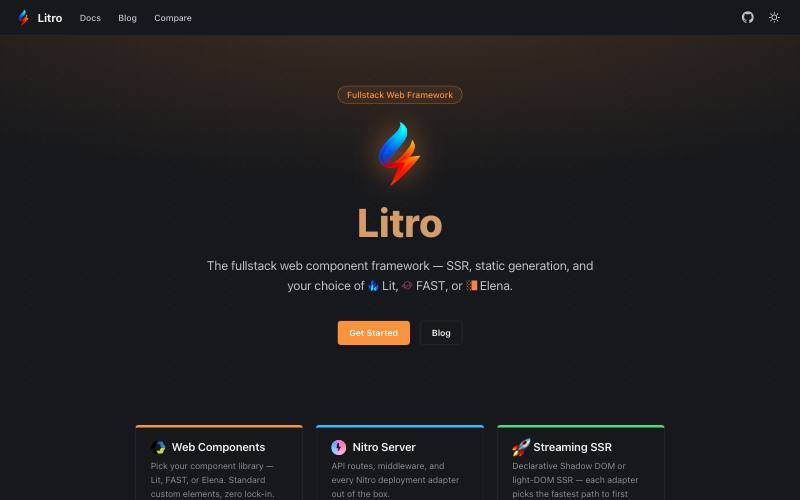
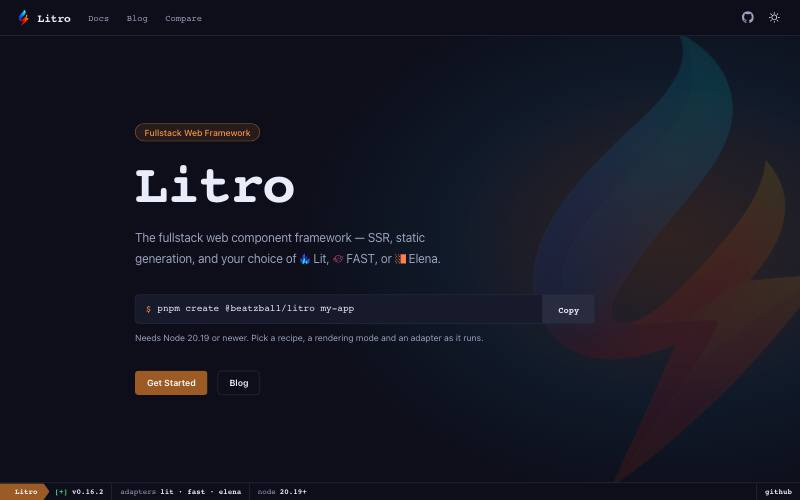
fix(docs): one frame size for the showcase, and a shot from this build
Three corrections from the owner's review.

1. THE SUPPORTING LINE WRAPPED

"The pictures" became "Screenshots" as asked, and it still ran to two lines —
the section head is capped at 42rem, so a wider screen never rescues it.
Shortened further, to:

    Four starting points. Screenshots of real Litro sites show each shape.

One line at 1280px, 1440px and 1600px, measured. Every word in it is
load-bearing: "real Litro sites" is what says the pictures are genuine without
claiming which recipe any one of them runs.

2. THE SCREENSHOTS RENDERED AT TWO SIZES

All four files were already 800x500. The frames were not: the grid used
auto-fit, so a row holding ONE screenshot stretched it across the whole pane
while a row holding two split the same space between them, and the same file
came out at two different sizes. It read as a collage rather than a set.

Two fixed columns now, one on a phone. Every frame in the block measures the
same at every width — 189x138 at 1280 and 1440, 308x212 at 390, one unique
size in each case — and the 8:5 aspect ratio with object-fit: cover keeps a
site whose content is not that shape from distorting: it is cropped from the
center, which is where a hero's content sits.

3. LITRO'S OWN SHOT CAME FROM THE DEPLOYED SITE

Which is the old page, since this work is not deployed. It is captured from a
local build of this branch now, served and shot the same way as the others, so
[…]

diff --git a/docs-ssr/pages/index.ts b/docs-ssr/pages/index.ts
@@ -124,8 +124,8 @@ const SHOWCASE: Array<{
         siteHref: "https://litro.dev",
         alt:
           "The Litro home page: a dark landing page with the Litro wordmark in " +
-          "a monospaced face, the flame mark cropped against the right edge, " +
-          "and a copyable install command.",
+          "a monospaced face, the flame mark cropped against the right edge, a " +
+          "copyable install command, and a terminal status line at the foot.",
       },
     ],
   },
@@ -1008,13 +1008,28 @@ export class SplashPage extends LitroPage {
       text-decoration-thickness: 2px;
     }
 
+    /* TWO COLUMNS, ALWAYS — not auto-fit. With auto-fit a row holding one
+       screenshot stretched it across the whole pane while a row holding two
+       split the same space between them, so the same 800x500 file came out at
+       two different sizes and the section read as a collage. A fixed column
+       count gives every frame in the block one width, and the fixed aspect
+       ratio below gives them all one height.
+
+       On a phone the panes are full width and one column is the readable
+       choice; every frame is still the same size as every other. */
     .shots {
       display: grid;
-      grid-template-columns: repeat(auto-fit, minmax(11rem, 1fr));
+      grid-template-columns: repeat(2, minmax(0, 1fr));
       gap: 0.75rem;
       margin: 0;
       padding: 0;
       list-style: none;
+    }
+
+    @media (max-width: 52rem) {
+      .shots {
+        grid-template-columns: minmax(0, 1fr);
+      }
     }
 
     .shots a {
@@ -1656,9 +1671,14 @@ export class SplashPage extends LitroPage {
           <section class="showcase shell" aria-label="Recipes">
             <div class="section-head">
               <h2 class="section-title">Start from a recipe.</h2>
+              <!-- ONE LINE AT 1280px, and it has to stay one: the column is
+                   capped at 42rem, so a wider screen never rescues it. Every
+                   word here is load-bearing — "real Litro sites" is what says
+                   the pictures are genuine without claiming which recipe any
+                   one of them runs. -->
               <p>
-                Four starting points. The pictures show the shape each one
-                gives you, from sites built with Litro.
+                Four starting points. Screenshots of real Litro sites show each
+                shape.
               </p>
             </div>
             <litro-pane-grid>

diff --git a/docs/pages/index.ts b/docs/pages/index.ts
@@ -107,8 +107,8 @@ const SHOWCASE: Array<{
         siteHref: "https://litro.dev",
         alt:
           "The Litro home page: a dark landing page with the Litro wordmark in " +
-          "a monospaced face, the flame mark cropped against the right edge, " +
-          "and a copyable install command.",
+          "a monospaced face, the flame mark cropped against the right edge, a " +
+          "copyable install command, and a terminal status line at the foot.",
       },
     ],
   },
@@ -985,13 +985,28 @@ export class SplashPage extends LitroPage {
       text-decoration-thickness: 2px;
     }
 
+    /* TWO COLUMNS, ALWAYS — not auto-fit. With auto-fit a row holding one
+       screenshot stretched it across the whole pane while a row holding two
+       split the same space between them, so the same 800x500 file came out at
+       two different sizes and the section read as a collage. A fixed column
+       count gives every frame in the block one width, and the fixed aspect
+       ratio below gives them all one height.
+
+       On a phone the panes are full width and one column is the readable
+       choice; every frame is still the same size as every other. */
     .shots {
       display: grid;
-      grid-template-columns: repeat(auto-fit, minmax(11rem, 1fr));
+      grid-template-columns: repeat(2, minmax(0, 1fr));
       gap: 0.75rem;
       margin: 0;
       padding: 0;
       list-style: none;
+    }
+
+    @media (max-width: 52rem) {
+      .shots {
+        grid-template-columns: minmax(0, 1fr);
+      }
     }
 
     .shots a {
@@ -1628,9 +1643,14 @@ export class SplashPage extends LitroPage {
           <section class="showcase shell" aria-label="Recipes">
             <div class="section-head">
               <h2 class="section-title">Start from a recipe.</h2>
+              <!-- ONE LINE AT 1280px, and it has to stay one: the column is
+                   capped at 42rem, so a wider screen never rescues it. Every
+                   word here is load-bearing — "real Litro sites" is what says
+                   the pictures are genuine without claiming which recipe any
+                   one of them runs. -->
               <p>
-                Four starting points. The pictures show the shape each one
-                gives you, from sites built with Litro.
+                Four starting points. Screenshots of real Litro sites show each
+                shape.
               </p>
             </div>
             <litro-pane-grid>
